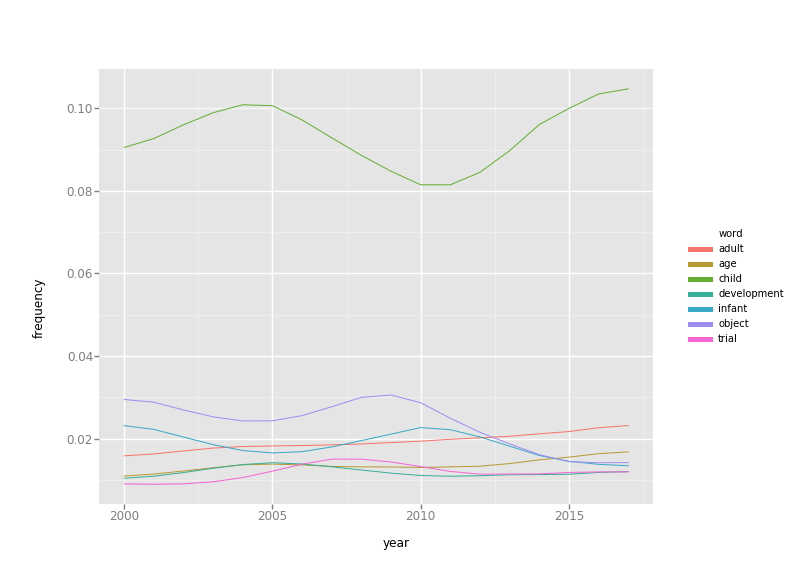
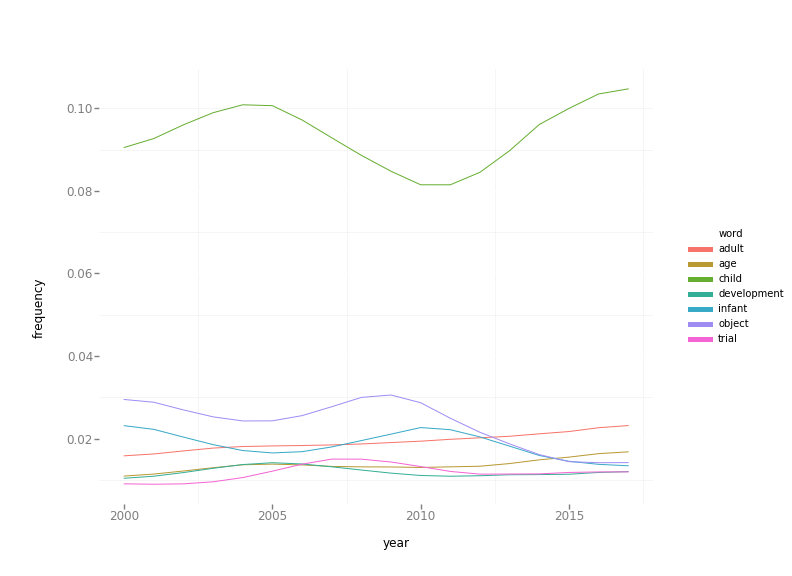
switched graph themes away from default ggplot theme
Anselm embarassed me with his nice clean graphs

diff --git a/graph_model_comparison.py b/graph_model_comparison.py
@@ -7,5 +7,5 @@ df['Year'] = df['Year'] + 2000
 df['Model'] = df['Model'].replace({'dtm': 'DTM (all years)',
                                    'lda_all': 'LDA (all years)',
                                    'lda_prev': 'LDA (previous year)'})
-p = ggplot(aes(x='Year', y='LL', color='Model'), data=df) + geom_line() + ylab('Log Likelihood')
+p = ggplot(aes(x='Year', y='LL', color='Model'), data=df) + geom_line() + ylab('Log Likelihood') + theme_bw()
 p.save(filename='modelcomparison.png', width=14)
